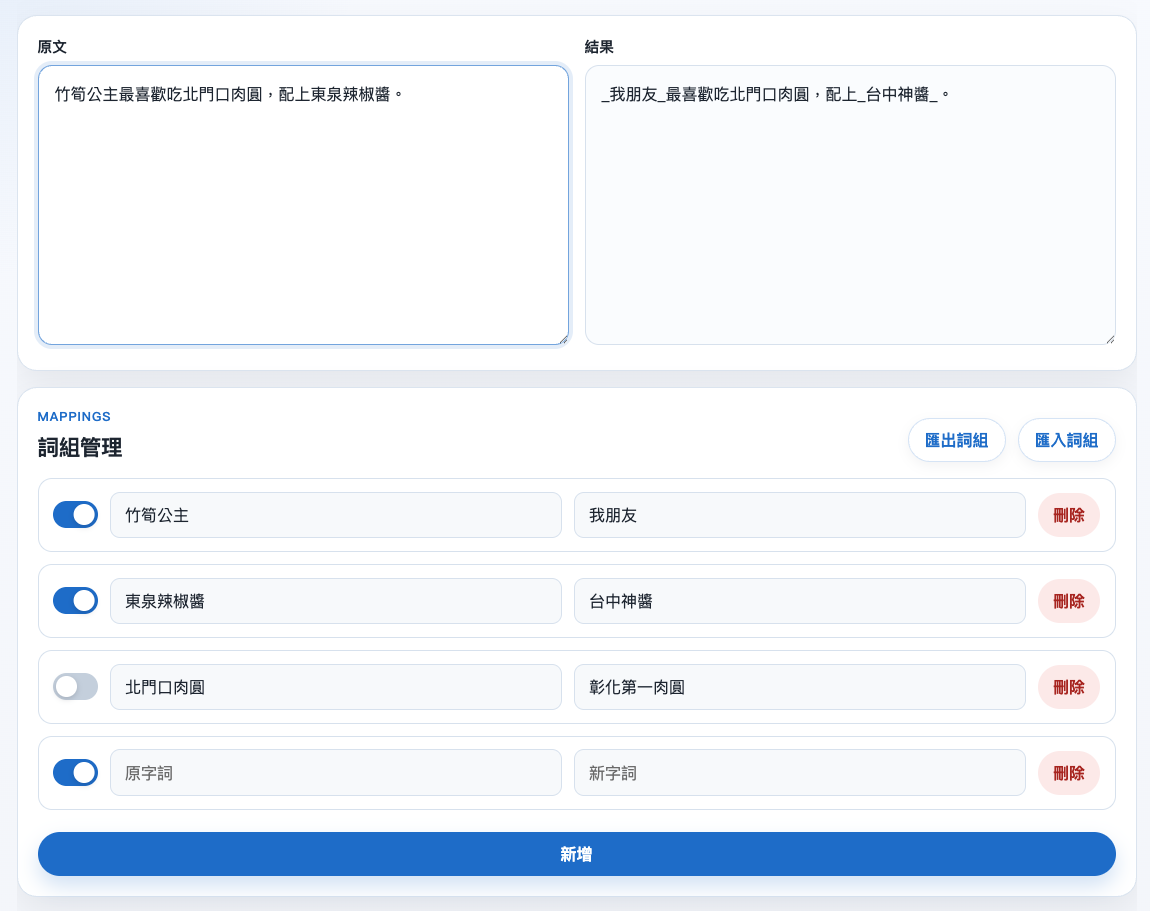
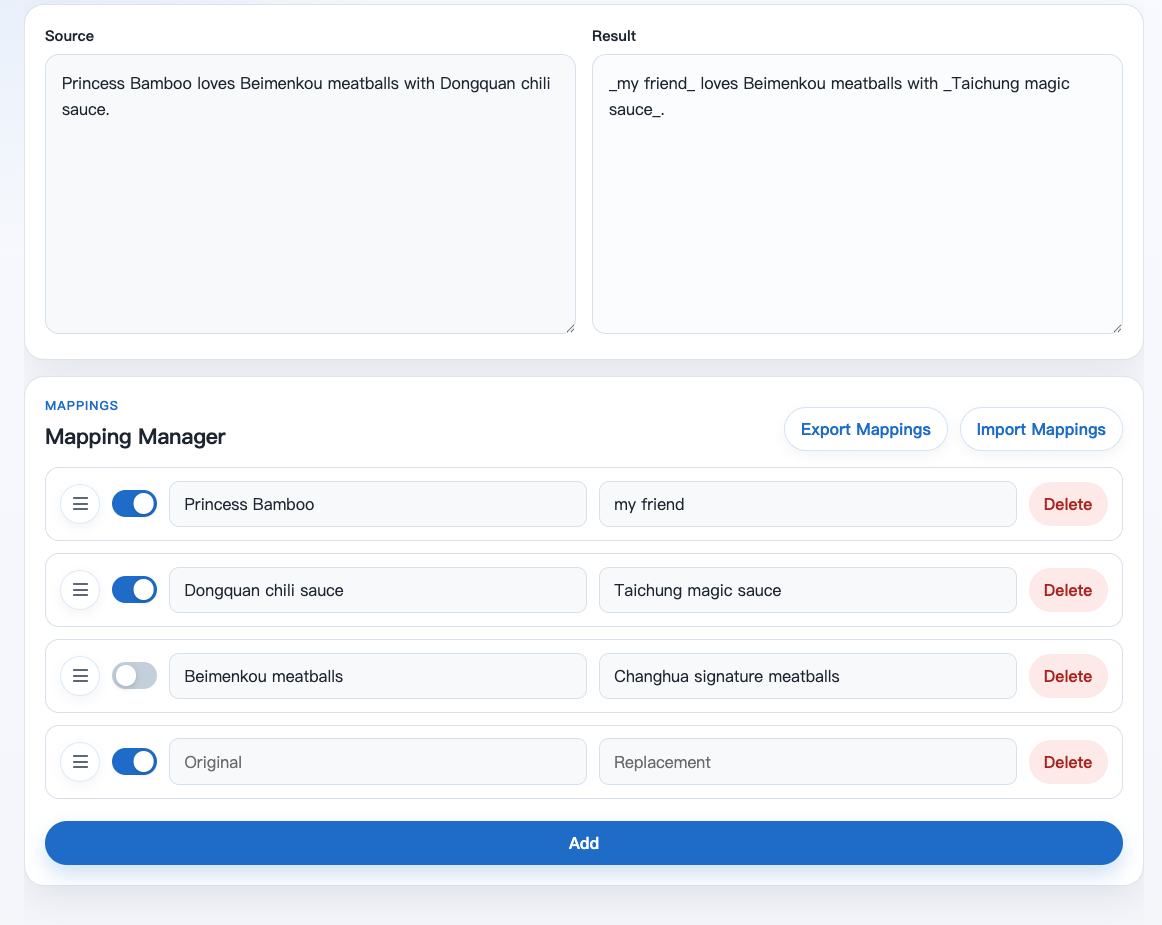
docs: add localized screenshots for the README files

Changed region(s): [[0.0304, 0.4303, 0.9739, 0.9835], [0.0304, 0.0307, 0.913, 0.3996], [0.6696, 0.4303, 0.9739, 0.5225]]

diff --git a/README.ja.md b/README.ja.md
@@ -16,7 +16,7 @@ GitHub Pages のページを開けばそのまま使えます。
 
 ## スクリーンショット
 
-![demo](./demo.png)
+![demo](./demo.ja.png)
 
 ## 機能
 
